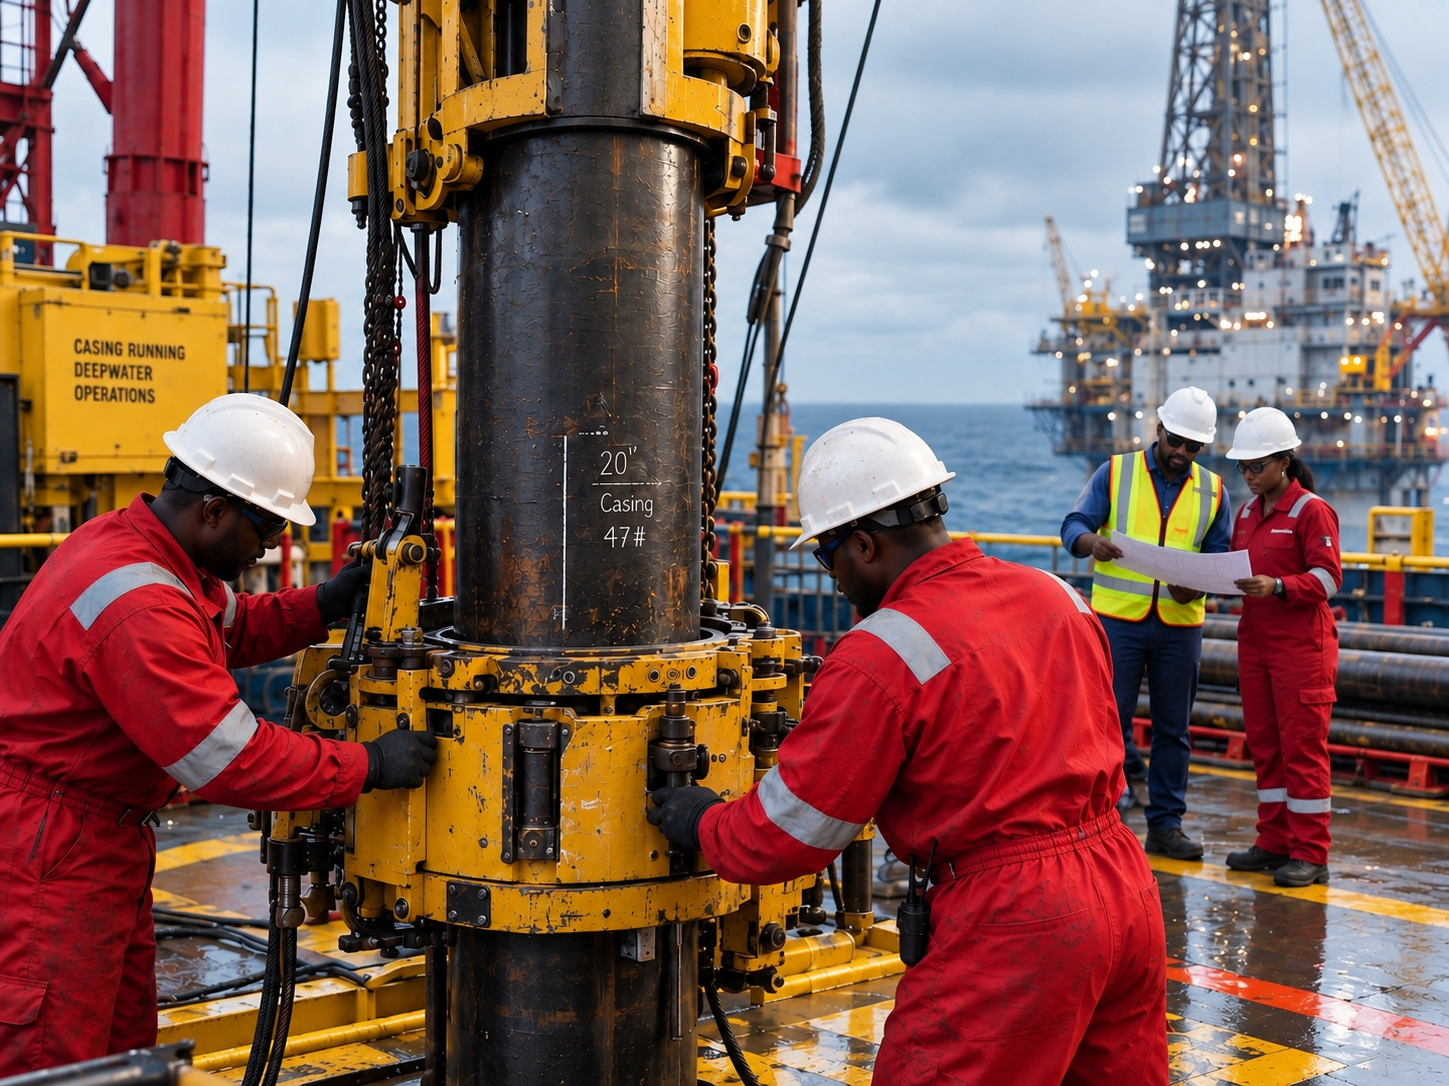
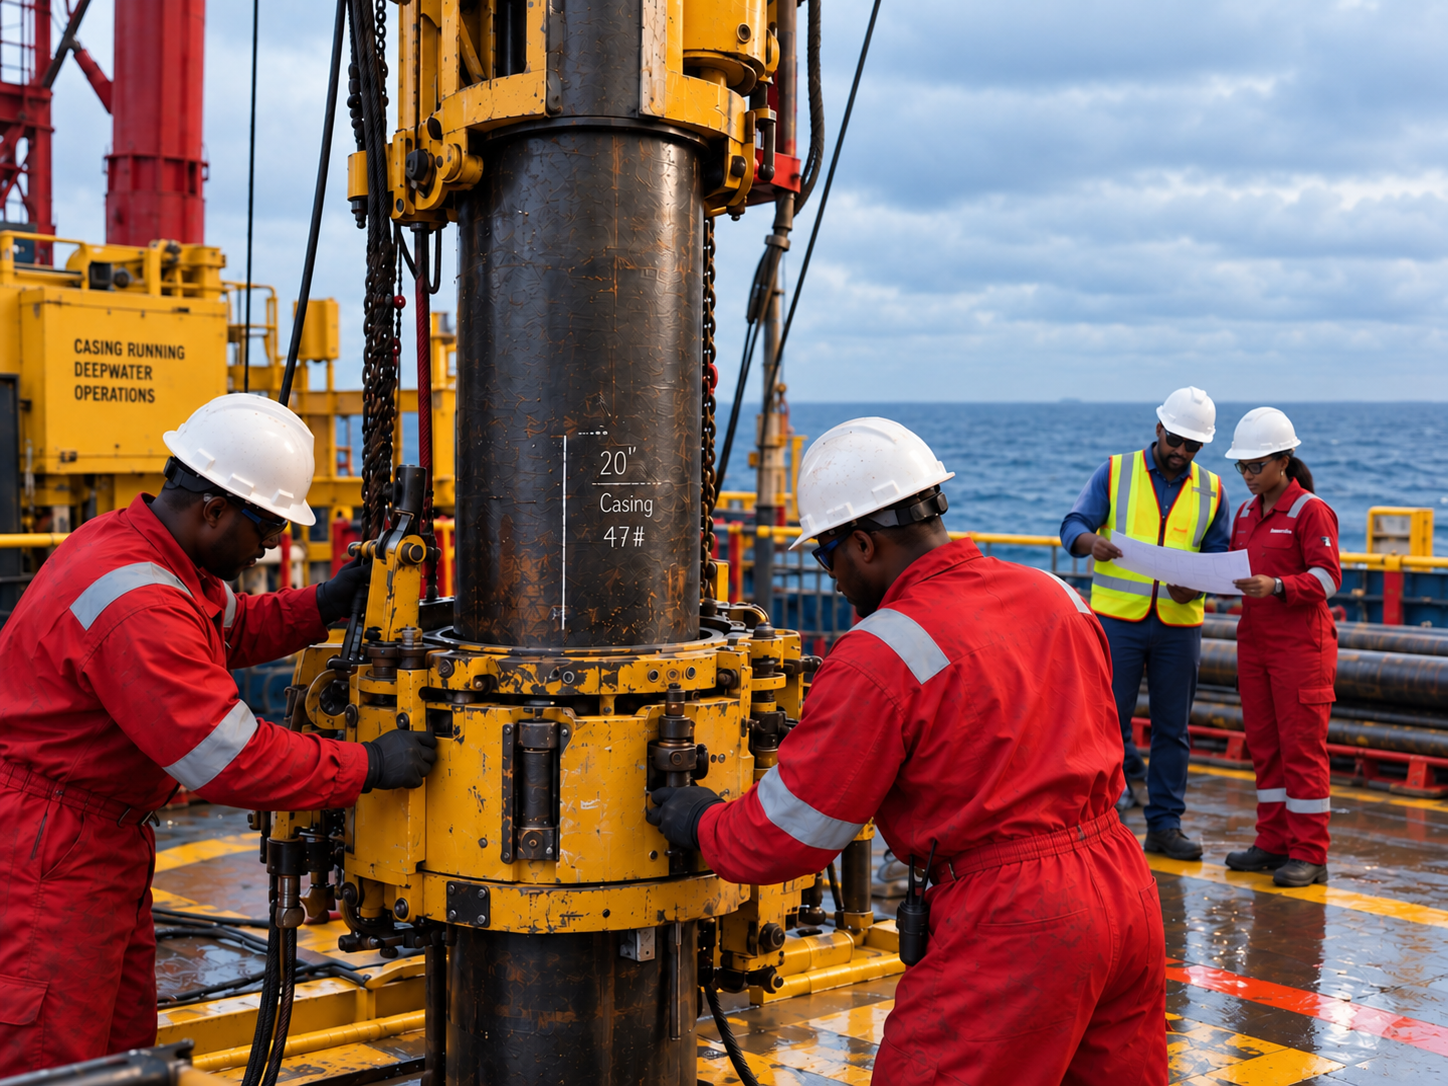
Update management images and website forms

diff --git a/management.html b/management.html
@@ -622,22 +622,33 @@
     }
 
     .leadership-card-media img {
-      display: block;
+  display: block;
 
-      width: 100%;
-      height: 100%;
+  width: 100%;
+  height: 100%;
 
-      object-fit: cover;
-      object-position: top center;
+  object-fit: cover;
+  object-position: top center;
 
-      transition: transform 0.5s ease;
-    }
+  transition: transform 0.5s ease;
+}
 
-    .leadership-card:hover
-    .leadership-card-media img {
-      transform: scale(1.035);
-    }
+.leadership-card:hover
+.leadership-card-media img {
+  transform: scale(1.035);
+}
 
+/* Make Anand appear larger in the management card */
+.leadership-card-media .anand-img {
+  object-position: center top !important;
+  transform: scale(1.35);
+  transform-origin: center top;
+}
+
+.leadership-card:hover
+.leadership-card-media .anand-img {
+  transform: scale(1.26);
+}
     .leadership-card-overlay {
       position: absolute;
       inset: 0;
@@ -1496,7 +1507,8 @@
 
                 <img
                   src="./images/ananddd.jpeg"
-                  alt="Mr. Anand Bhatia"
+                  alt="Anand"
+                  class="management-img anand-img"
                 />
 
                 <div class="leadership-card-overlay">

diff --git a/board/henry-okolo.html b/board/henry-okolo.html
@@ -789,7 +789,7 @@
           >
 
             <img
-              src="../images/henry.png"
+              src="../images/Okolo.png"
               alt="Chief Henry Okolo, Director at AOS Orwell"
               class="exec-portrait"
             >
